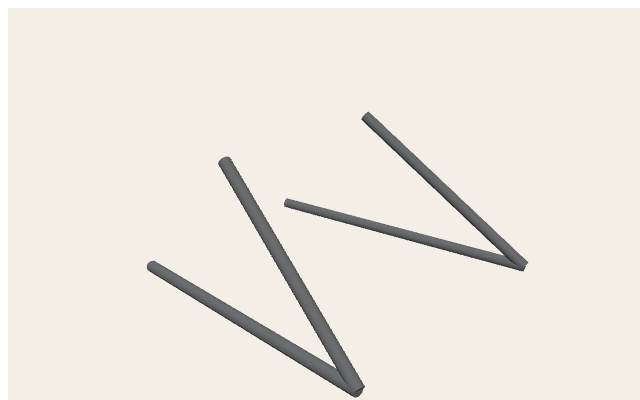
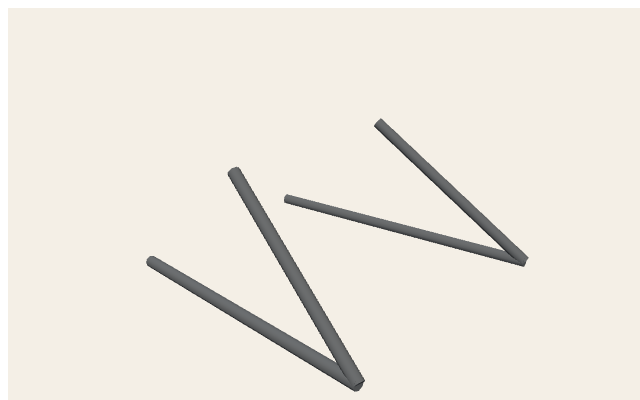
v0.3.261: Stop Käferkraft waist stays at the cage picks
The extra 8 cm cage bury was punching through the far side of the hoop.

Changed region(s): [[0.2188, 0.27, 0.8438, 1.0]]

diff --git a/tests/kaeferkraft-pole-frame.test.ts b/tests/kaeferkraft-pole-frame.test.ts
@@ -71,13 +71,9 @@ function expectRailCovers(ends: [Vector3, Vector3], pick: { front: Vector3; rear
   expect(projectT(pick.rear, front, rear)).toBeLessThan(0.98);
 }
 
-function expectStayReachesCage(ends: [Vector3, Vector3], cage: Vector3): void {
+function expectStayEndsAtCage(ends: [Vector3, Vector3], cage: Vector3): void {
   const cageEnd = ends[0].distanceTo(cage) <= ends[1].distanceTo(cage) ? ends[0] : ends[1];
-  const waistEnd = cageEnd === ends[0] ? ends[1] : ends[0];
-  expect(distToSegment(cage, waistEnd, cageEnd)).toBeLessThan(POLE_R);
-  expect(cageEnd.distanceTo(cage)).toBeGreaterThan(INTO * 0.85);
-  expect(projectT(cage, waistEnd, cageEnd)).toBeGreaterThan(0.8);
-  expect(projectT(cage, waistEnd, cageEnd)).toBeLessThan(0.98);
+  expect(cageEnd.distanceTo(cage)).toBeLessThan(POLE_R);
 }
 
 describe("Käferkraft pole-frame waist", () => {
@@ -94,8 +90,8 @@ describe("Käferkraft pole-frame waist", () => {
     expect(doc.getRoot().listNodes().some((n) => n.getName() === "Waist" || n.getName() === "Waist_1")).toBe(false);
     expectRailCovers(cylinderEnds(left!), WAIST_L_PICK);
     expectRailCovers(cylinderEnds(right!), WAIST_R_PICK);
-    expectStayReachesCage(cylinderEnds(named("WaistToFrontTop_L")!), WAIST_L_PICK.cage);
-    expectStayReachesCage(cylinderEnds(named("WaistToFrontTop_R")!), WAIST_R_PICK.cage);
+    expectStayEndsAtCage(cylinderEnds(named("WaistToFrontTop_L")!), WAIST_L_PICK.cage);
+    expectStayEndsAtCage(cylinderEnds(named("WaistToFrontTop_R")!), WAIST_R_PICK.cage);
 
     expect(named("WaistToFrontTop_L")).toBeTruthy();
     expect(named("WaistToFrontTop_R")).toBeTruthy();
@@ -117,8 +113,8 @@ describe("Käferkraft pole-frame waist", () => {
     };
     expectRailCovers(endsOf(left!), WAIST_L_PICK);
     expectRailCovers(endsOf(right!), WAIST_R_PICK);
-    expectStayReachesCage(endsOf(g.children.find((c) => c.name === "WaistToFrontTop_L")!), WAIST_L_PICK.cage);
-    expectStayReachesCage(endsOf(g.children.find((c) => c.name === "WaistToFrontTop_R")!), WAIST_R_PICK.cage);
+    expectStayEndsAtCage(endsOf(g.children.find((c) => c.name === "WaistToFrontTop_L")!), WAIST_L_PICK.cage);
+    expectStayEndsAtCage(endsOf(g.children.find((c) => c.name === "WaistToFrontTop_R")!), WAIST_R_PICK.cage);
     expect(g.children.some((c) => c.name === "WaistToFrontTop_L")).toBe(true);
     expect(g.children.some((c) => c.name === "WaistToFrontTop_R")).toBe(true);
   });

diff --git a/src/render/carPartBuilders.ts b/src/render/carPartBuilders.ts
@@ -221,7 +221,7 @@ export function buildReinforcedFrame(
     for (const side of [waistL, waistR]) {
       const [front, rear] = extendPoleIntoFrame(side.front, side.rear, into);
       addStraightPole(g, front, rear, r, GREY, side.name);
-      addStraightPole(g, rear, extendPoleIntoFrame(rear, side.cage, into)[1], r, GREY, side.stay);
+      addStraightPole(g, rear, side.cage, r, GREY, side.stay);
     }
     return g;
   }

diff --git a/src/core/version.ts b/src/core/version.ts
@@ -1,5 +1,5 @@
 /** Mirrors package.json version — bump both on each implementation step. */
-export const APP_VERSION = "0.3.260";
+export const APP_VERSION = "0.3.261";
 
 /** Short player-visible credit — German UI, near version / Hilfe. */
 export const APP_CREDIT = "Mit KI erstellt · menschliche Anleitung";

diff --git a/.cursor/cheatsheets/car-kaeferkraft.md b/.cursor/cheatsheets/car-kaeferkraft.md
@@ -229,7 +229,7 @@ Orange boxes = mesh AABBs. Green dots = Teil **mount anchors** (`CAR_PART_LAYOUT
 
 ## Waist anchor picker
 
-Live poles are detached: say `WaistL` (−Z) or `WaistR` (+Z). Stays `WaistToFrontTop_L` / `WaistToFrontTop_R` end on BodyPaint cage picks. Caps bury 8 cm into the hull.
+Live poles are detached: say `WaistL` (−Z) or `WaistR` (+Z). Stays `WaistToFrontTop_L` / `WaistToFrontTop_R` stop at BodyPaint cage picks. Waist caps bury 8 cm; stays do not punch through the cage.
 
 ![Käferkraft Waist anchors](../../assets/tripo-concepts/kaeferkraft-waist-anchors.png)
 
@@ -366,7 +366,7 @@ Root AABB (-0.555, 0, -0.605) → (0.555, 0.4, 0.605)
 
 ![public/models/parts/kaeferkraft-reinforced_frame.glb](./img/part-kaeferkraft-reinforced_frame.png)
 
-Root AABB (-0.654, 1.026, -0.635) → (0.674, 1.658, 0.601)
+Root AABB (-0.654, 1.026, -0.635) → (0.674, 1.611, 0.601)
 
 <svg xmlns="http://www.w3.org/2000/svg" width="760" height="520" viewBox="0 0 760 520">
 <rect x="0" y="0" width="760" height="520" fill="#f4efe6"/>
@@ -417,12 +417,12 @@ Root AABB (-0.654, 1.026, -0.635) → (0.674, 1.658, 0.601)
 <text x="48" y="40.0" text-anchor="end" font-size="11" font-family="ui-monospace,monospace" fill="#1a1a1a">2</text>
 <rect x="286.9" y="303.9" width="224.0" height="24.5" fill="#f08c0033" stroke="#f08c00" stroke-width="1.6"/>
 <text x="398.9" y="316.2" text-anchor="middle" font-size="10" font-family="ui-sans-serif,sans-serif" font-weight="700" fill="#1a1a1a">WaistL</text>
-<rect x="373.5" y="304.6" width="139.4" height="23.9" fill="#f08c0033" stroke="#f08c00" stroke-width="1.6"/>
-<text x="443.3" y="316.6" text-anchor="middle" font-size="10" font-family="ui-sans-serif,sans-serif" font-weight="700" fill="#1a1a1a">WaistToFrontTop_L</text>
+<rect x="384.4" y="306.1" width="128.6" height="22.4" fill="#f08c0033" stroke="#f08c00" stroke-width="1.6"/>
+<text x="448.7" y="317.3" text-anchor="middle" font-size="10" font-family="ui-sans-serif,sans-serif" font-weight="700" fill="#1a1a1a">WaistToFrontTop_L</text>
 <rect x="298.6" y="191.3" width="213.7" height="15.7" fill="#f08c0033" stroke="#f08c00" stroke-width="1.6"/>
 <text x="405.4" y="199.2" text-anchor="middle" font-size="10" font-family="ui-sans-serif,sans-serif" font-weight="700" fill="#1a1a1a">WaistR</text>
-<rect x="376.4" y="191.3" width="138.1" height="21.9" fill="#f08c0033" stroke="#f08c00" stroke-width="1.6"/>
-<text x="445.5" y="202.3" text-anchor="middle" font-size="10" font-family="ui-sans-serif,sans-serif" font-weight="700" fill="#1a1a1a">WaistToFrontTop_R</text>
+<rect x="387.3" y="191.3" width="127.2" height="20.6" fill="#f08c0033" stroke="#f08c00" stroke-width="1.6"/>
+<text x="450.9" y="201.6" text-anchor="middle" font-size="10" font-family="ui-sans-serif,sans-serif" font-weight="700" fill="#1a1a1a">WaistToFrontTop_R</text>
 <text x="380" y="22" text-anchor="middle" font-size="14" font-family="ui-sans-serif,sans-serif" font-weight="800" fill="#1a1a1a">public/models/parts/kaeferkraft-reinforced_frame.glb — top XZ</text>
 <text x="380" y="512" text-anchor="middle" font-size="11" font-family="ui-sans-serif,sans-serif" fill="#5c564c">+X → right · +Z → up · origin = red (+X) / blue (+Z) · meters</text>
 </svg>
@@ -430,9 +430,9 @@ Root AABB (-0.654, 1.026, -0.635) → (0.674, 1.658, 0.601)
 | Node | Mesh | Prims | Verts | Center xyz | AABB min → max | Materials |
 | --- | --- | --- | --- | --- | --- | --- |
 | `WaistL` | `WaistL` | 1 | 52 | (-0.001, 1.056, -0.524) | (-0.654, 1.026, -0.635) → (0.653, 1.086, -0.414) | Grey |
-| `WaistToFrontTop_L` | `WaistToFrontTop_L` | 1 | 52 | (0.258, 1.342, -0.528) | (-0.148, 1.031, -0.635) → (0.664, 1.653, -0.42) | Grey |
+| `WaistToFrontTop_L` | `WaistToFrontTop_L` | 1 | 52 | (0.29, 1.318, -0.534) | (-0.085, 1.031, -0.635) → (0.664, 1.606, -0.433) | Grey |
 | `WaistR` | `WaistR` | 1 | 52 | (0.037, 1.062, 0.53) | (-0.586, 1.036, 0.459) → (0.661, 1.088, 0.601) | Grey |
-| `WaistToFrontTop_R` | `WaistToFrontTop_R` | 1 | 52 | (0.271, 1.351, 0.502) | (-0.132, 1.043, 0.403) → (0.674, 1.658, 0.601) | Grey |
+| `WaistToFrontTop_R` | `WaistToFrontTop_R` | 1 | 52 | (0.303, 1.327, 0.508) | (-0.068, 1.043, 0.415) → (0.674, 1.611, 0.601) | Grey |
 
 ## Part / extra `public/models/parts/kaeferkraft-lightweight_body.glb`
 

diff --git a/assets/tripo-concepts/kaeferkraft-waist-anchors.md b/assets/tripo-concepts/kaeferkraft-waist-anchors.md
@@ -9,7 +9,7 @@ Mesh space, meters, **nose −X**. Caps bury 8 cm into the hull.
 | `WaistL` | −Z | (−0.571, 1.061, −0.449) | (0.570, 1.051, −0.600) |
 | `WaistR` | +Z | (−0.504, 1.061, 0.490) | (0.579, 1.063, 0.570) |
 
-Stays (cage cap buried 8 cm past the pick):
+Stays (cage cap stops at the BodyPaint pick, not through the far side):
 
 | Node | Cage end |
 | --- | --- |
